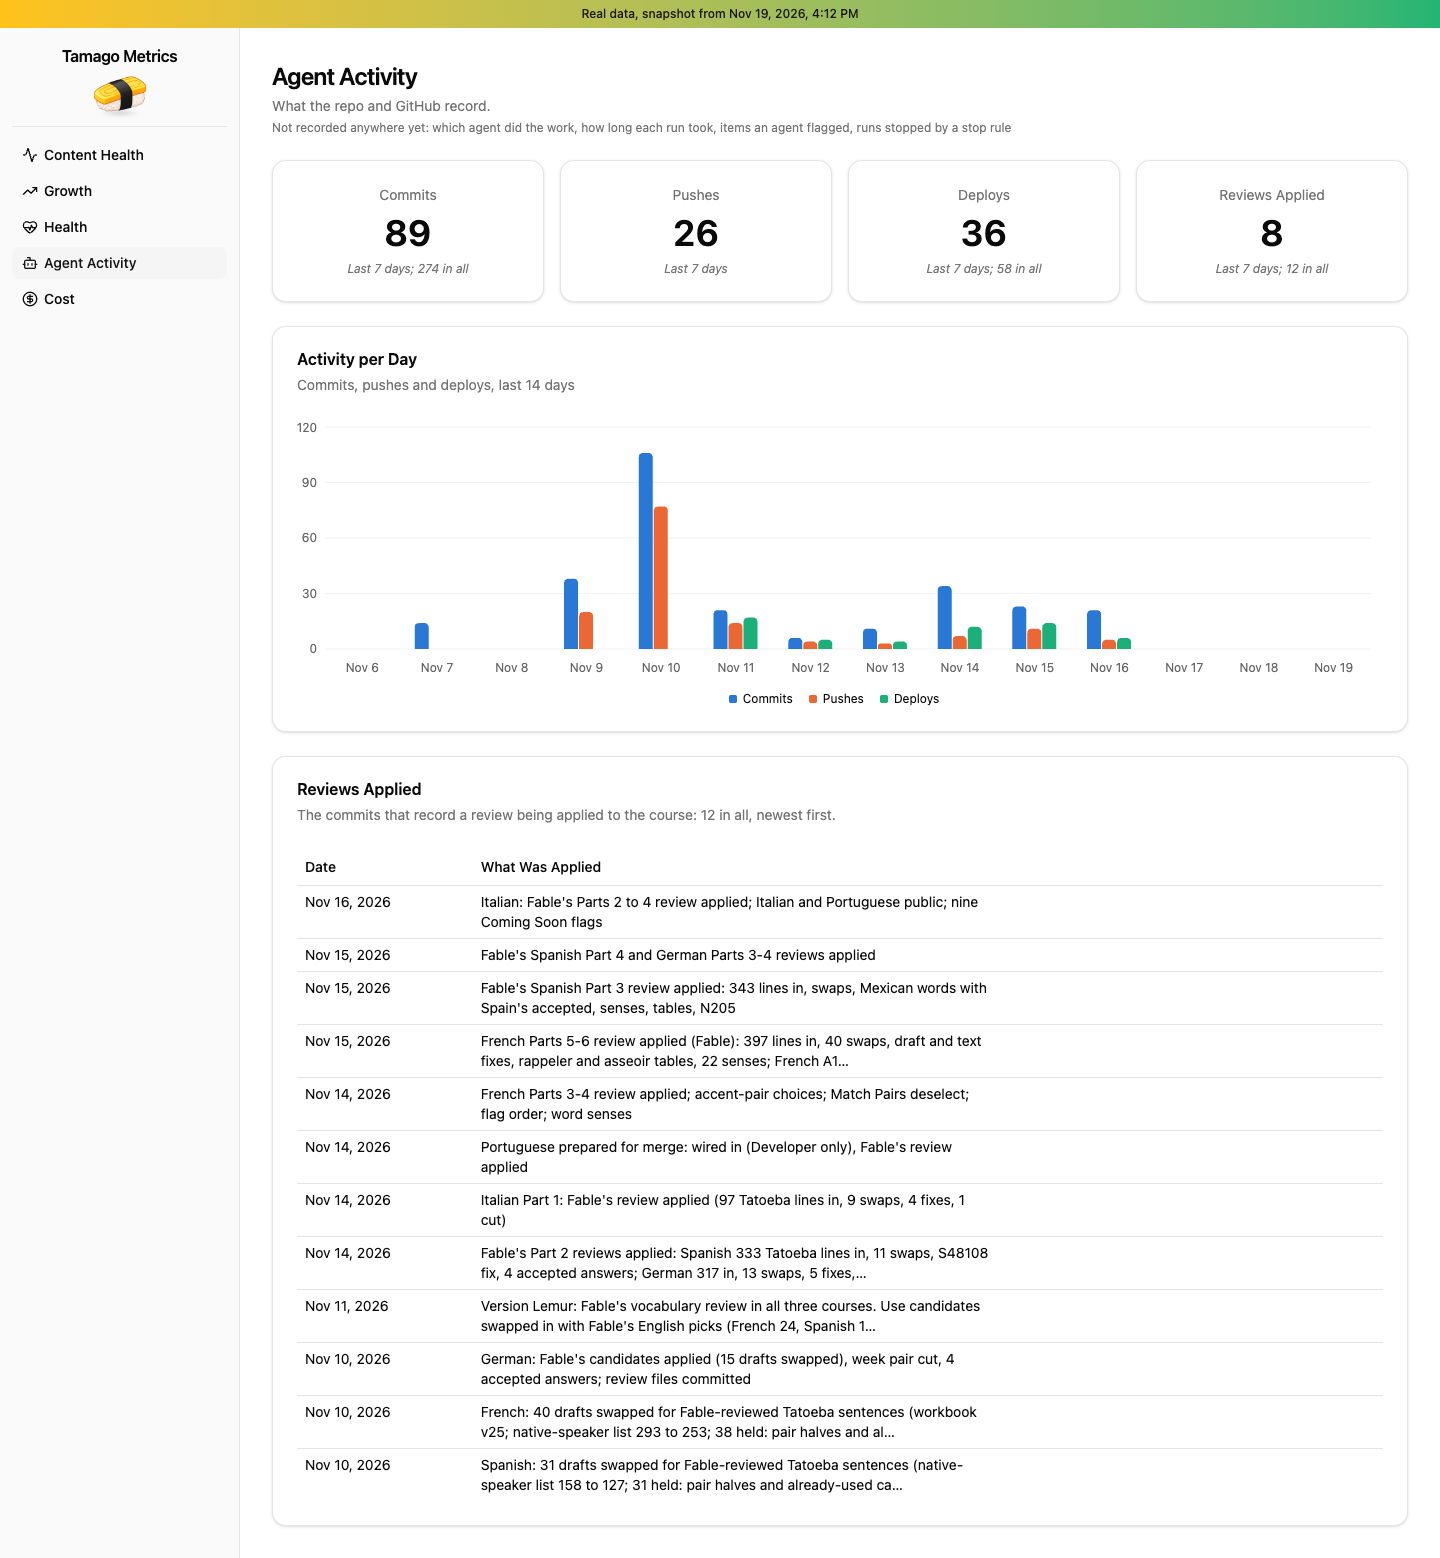
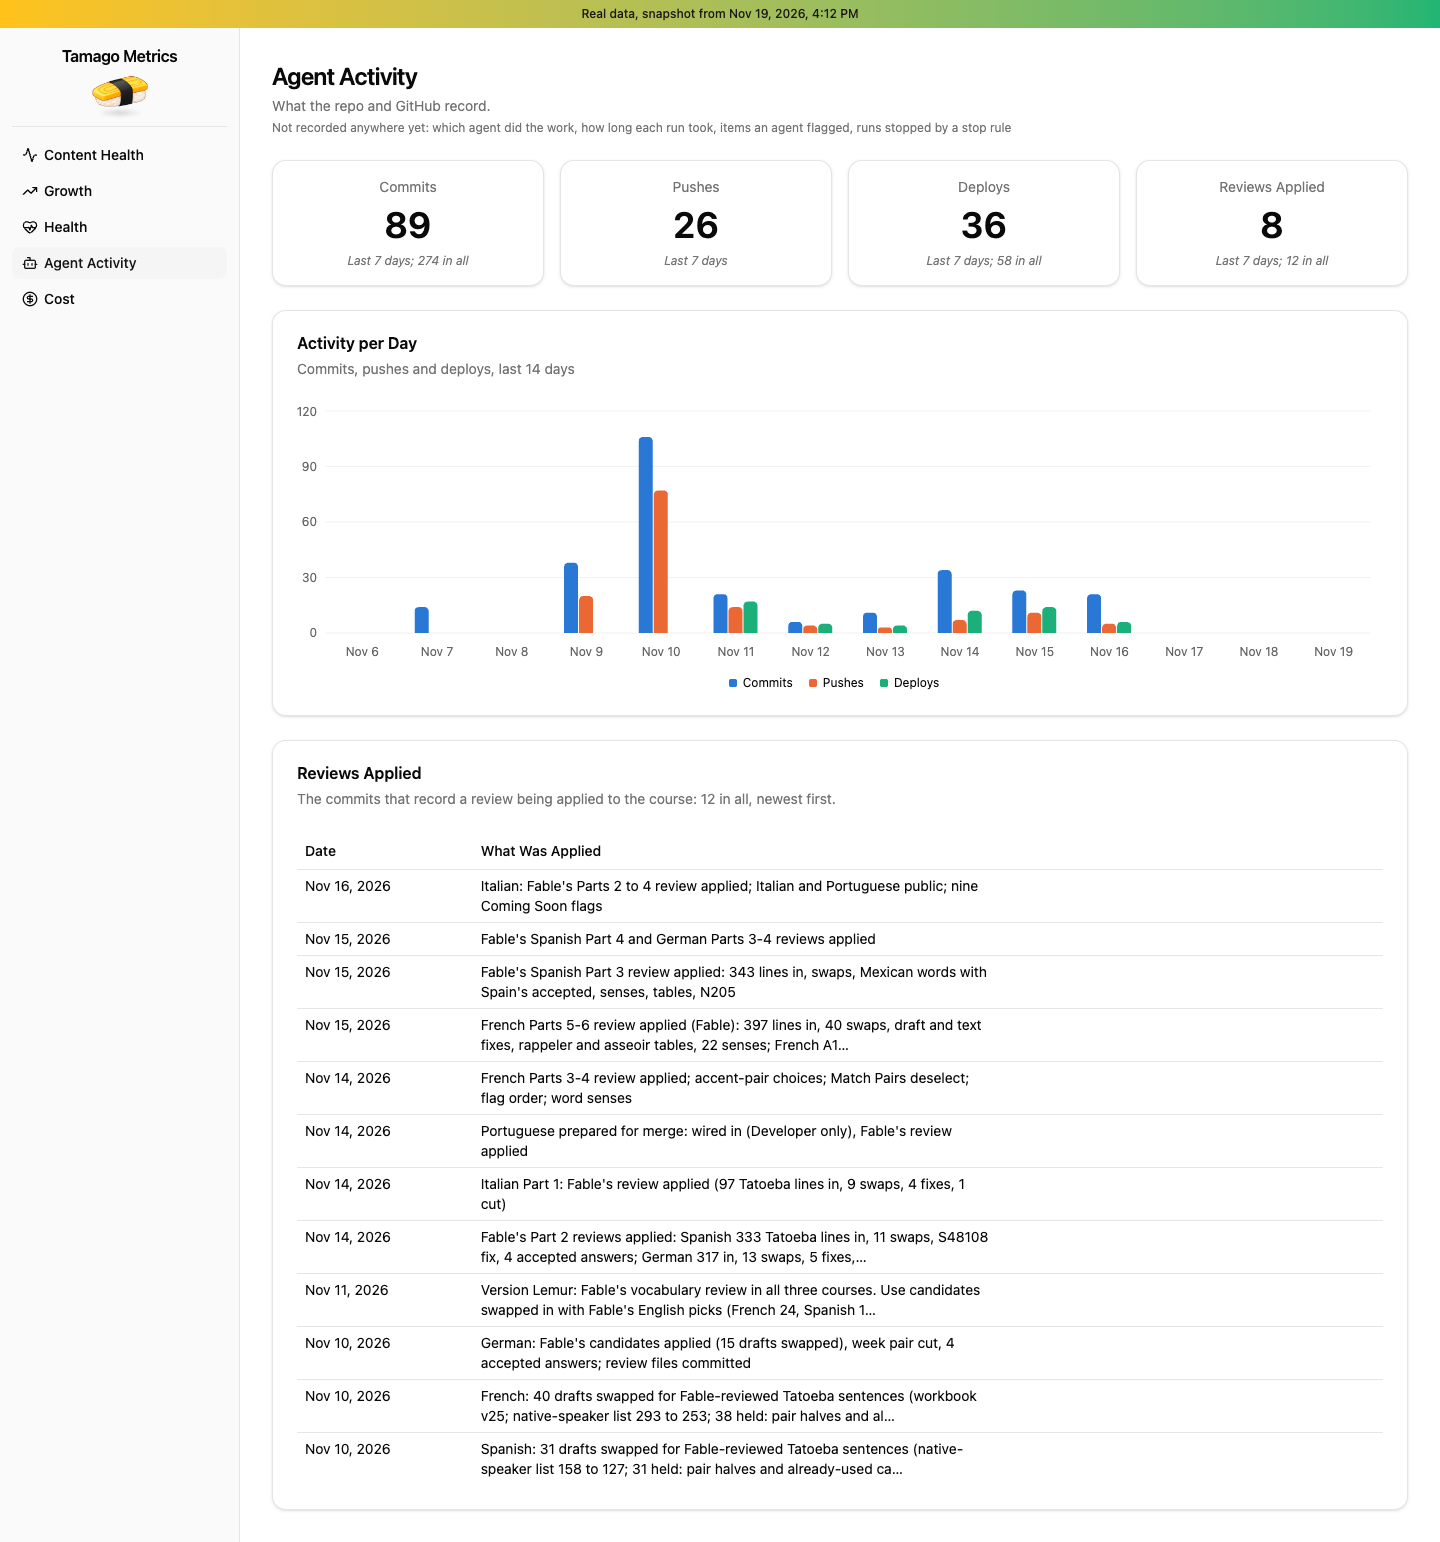
Trend lines only once a number has changed, without the shaded area; stat cards 30% less padding

diff --git a/src/data/snapshot.ts b/src/data/snapshot.ts
@@ -50,7 +50,10 @@ export function trendOf(field: HistoryNumberField): TrendPoint[] | null {
     const value = entry[field]
     if (typeof value === 'number') points.push({ takenAt: entry.takenAt, value })
   }
-  return points.length >= TREND_MIN_SNAPSHOTS ? points : null
+  if (points.length < TREND_MIN_SNAPSHOTS) return null
+  // Nothing is drawn until the number has actually changed between snapshots (Dan, 2026-11-19): a flat line
+  // only says "no change", and the card reads better ending after its description.
+  return points.some((point) => point.value !== points[0].value) ? points : null
 }
 
 /** A deploy as text, e.g. "Dolphin 58". */

diff --git a/src/charts/StatTiles.tsx b/src/charts/StatTiles.tsx
@@ -30,7 +30,7 @@ export function StatTiles({ tiles }: { tiles: StatTile[] }) {
           tile.trend !== null && tile.trend.length >= TREND_MIN_POINTS ? tile.trend : null
 
         return (
-          <Card key={tile.id}>
+          <Card key={tile.id} className="gap-4 py-4">
             <CardHeader className="justify-items-center text-center">
               <CardDescription>{tile.label}</CardDescription>
               {tile.measured ? (

diff --git a/src/charts/Sparkline.tsx b/src/charts/Sparkline.tsx
@@ -89,8 +89,7 @@ export function Sparkline({
           type={movesInSteps(trend) ? 'step' : 'monotone'}
           stroke="var(--color-value)"
           strokeWidth={2}
-          fill="var(--color-value)"
-          fillOpacity={0.12}
+          fill="none"
           dot={false}
           isAnimationActive={false}
         />
